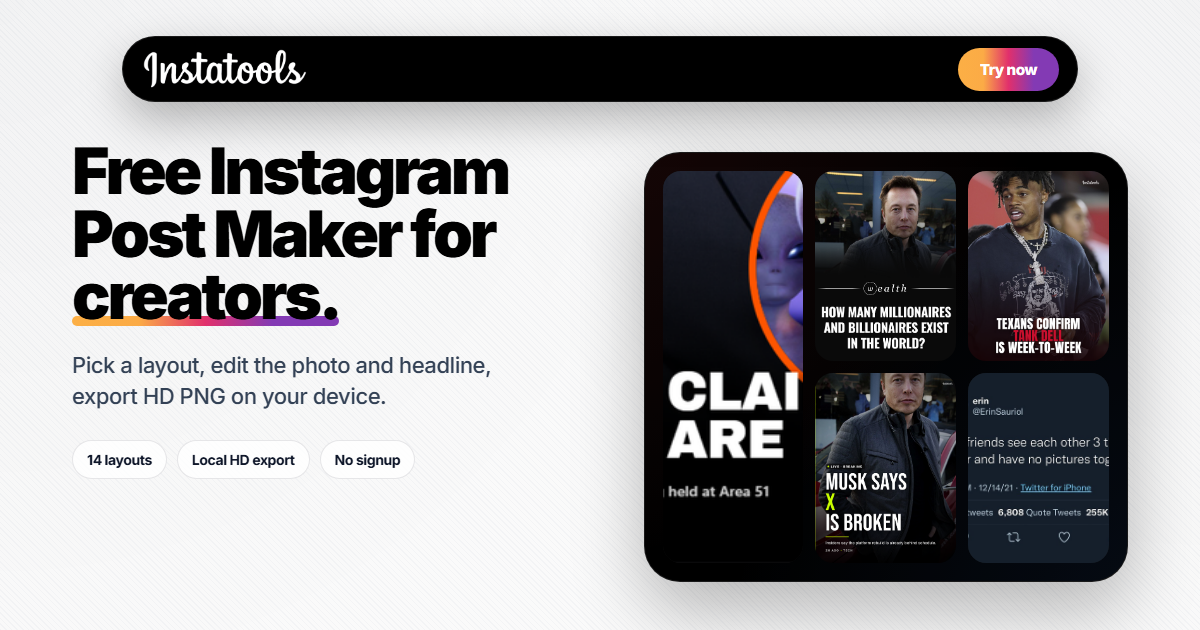
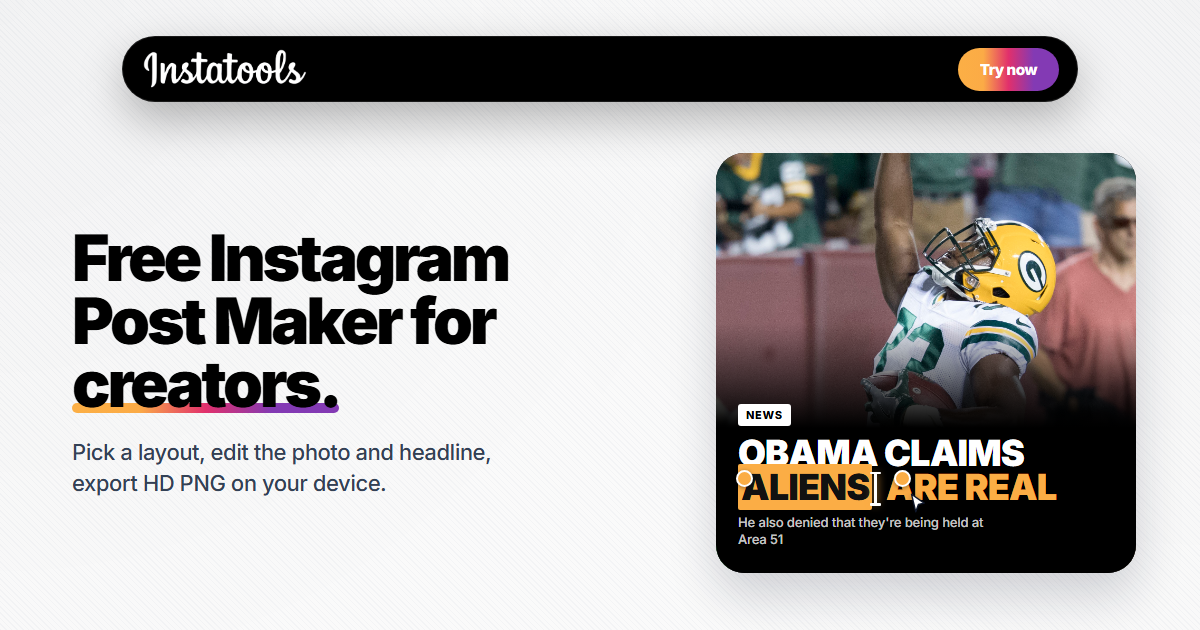
Refresh OG/Twitter card with gold edit accents.
Replace the collage with a single editing post mock and swap selection blues for #FBAD45, then ship the new share assets.

diff --git a/scripts/share-card.html b/scripts/share-card.html
@@ -6,7 +6,10 @@
     <link rel="preconnect" href="https://fonts.gstatic.com" crossorigin />
     <link href="https://fonts.googleapis.com/css2?family=Inter:wght@500;700;800;900&display=swap" rel="stylesheet" />
     <style>
-      html, body { margin: 0; }
+      html,
+      body {
+        margin: 0;
+      }
       .card {
         width: 1200px;
         height: 630px;
@@ -25,7 +28,13 @@
         background-image:
           radial-gradient(circle at 0 0, rgba(15, 23, 42, 0.06) 0, transparent 55%),
           radial-gradient(circle at 100% 0, rgba(15, 23, 42, 0.05) 0, transparent 55%),
-          repeating-linear-gradient(45deg, rgba(148, 163, 184, 0.12) 0, rgba(148, 163, 184, 0.12) 1px, transparent 1px, transparent 4px);
+          repeating-linear-gradient(
+            45deg,
+            rgba(148, 163, 184, 0.12) 0,
+            rgba(148, 163, 184, 0.12) 1px,
+            transparent 1px,
+            transparent 4px
+          );
       }
       .grad {
         --m-grad: linear-gradient(90deg, #fcaf45 0%, #fbab46 25%, #e1306c 50%, #833ab4 75%, #833ab4 100%);
@@ -66,12 +75,13 @@
       .hero {
         position: relative;
         z-index: 1;
-        padding: 140px 72px 48px;
+        padding: 132px 64px 36px 72px;
         display: grid;
-        grid-template-columns: 1.05fr 0.95fr;
-        gap: 36px;
+        grid-template-columns: 1fr 420px;
+        gap: 48px;
         height: 100%;
         box-sizing: border-box;
+        align-items: center;
       }
       .copy h1 {
         margin: 0;
@@ -98,74 +108,146 @@
       }
       .lead {
         margin: 22px 0 0;
-        max-width: 460px;
+        max-width: 440px;
         color: #334155;
         font-size: 22px;
         font-weight: 500;
         line-height: 1.4;
         letter-spacing: -0.02em;
       }
-      .meta {
-        margin-top: 28px;
-        display: flex;
-        gap: 10px;
-        flex-wrap: wrap;
-      }
-      .chip {
-        border: 1px solid rgba(15, 23, 42, 0.1);
-        background: rgba(255, 255, 255, 0.8);
-        border-radius: 999px;
-        padding: 10px 14px;
-        font-size: 14px;
-        font-weight: 700;
-        color: #0f172a;
-      }
-      .stage {
-        align-self: end;
+
+      /* Single Instagram post, solid edges, no mask / no outer glow */
+      .post {
+        width: 420px;
+        height: 420px;
         justify-self: end;
-        width: 100%;
-        height: 430px;
+        border-radius: 28px;
+        overflow: hidden;
+        position: relative;
         background: #000;
-        border: 1px solid rgba(255, 255, 255, 0.1);
-        border-radius: 36px;
-        padding: 18px;
-        box-sizing: border-box;
-        display: grid;
-        grid-template-columns: repeat(3, 1fr);
-        gap: 12px;
-        box-shadow: 0 28px 70px rgba(0, 0, 0, 0.28);
-        position: relative;
-        overflow: hidden;
+        box-shadow: 0 22px 48px rgba(15, 23, 42, 0.18);
       }
-      .stage::before {
-        content: '';
+      .post-photo {
         position: absolute;
-        inset: -20%;
-        background:
-          radial-gradient(circle at top left, rgba(239, 68, 68, 0.16), transparent 55%),
-          radial-gradient(circle at bottom right, rgba(59, 130, 246, 0.14), transparent 55%);
-        opacity: 0.7;
-        mix-blend-mode: screen;
-        pointer-events: none;
-      }
-      .thumb {
-        position: relative;
-        z-index: 1;
-        border-radius: 18px;
-        overflow: hidden;
-        background: #111;
-      }
-      .thumb img {
+        inset: 0;
         width: 100%;
         height: 100%;
         object-fit: cover;
+        object-position: center 18%;
         display: block;
       }
-      .thumb:nth-child(1) { grid-row: 1 / 3; }
-      .thumb:nth-child(2) { height: 190px; }
-      .thumb:nth-child(3) { height: 190px; }
-      .thumb:nth-child(4) { height: 190px; }
-      .thumb:nth-child(5) { height: 190px; }
+      .post-type {
+        position: absolute;
+        left: 0;
+        right: 0;
+        bottom: 0;
+        z-index: 2;
+        padding: 80px 22px 24px;
+        /* Solid black floor so nothing ghosts through */
+        background: linear-gradient(180deg, rgba(0, 0, 0, 0) 0%, #000 42%, #000 100%);
+        color: #fff;
+        font-weight: 900;
+        letter-spacing: -0.05em;
+        text-transform: uppercase;
+      }
+      .badge {
+        display: inline-block;
+        background: #fff;
+        color: #000;
+        font-size: 11px;
+        font-weight: 800;
+        letter-spacing: 0.06em;
+        padding: 4px 8px;
+        border-radius: 3px;
+        margin-bottom: 10px;
+      }
+      .line {
+        display: block;
+        font-size: 36px;
+        line-height: 0.95;
+      }
+      .line-2 {
+        margin-top: 2px;
+        font-size: 36px;
+        line-height: 0.95;
+        white-space: nowrap;
+      }
+      .word-orange {
+        color: #ff7a18;
+      }
+      .word-blue {
+        color: #fbad45;
+      }
+      .sel {
+        background: #fbad45;
+        color: #111;
+        border-radius: 2px;
+        padding: 1px 3px;
+      }
+      .caret {
+        display: inline-block;
+        width: 3px;
+        height: 32px;
+        margin: 0 2px -5px;
+        background: #fff;
+        border-radius: 1px;
+        vertical-align: baseline;
+        position: relative;
+        box-shadow: 0 0 8px rgba(251, 173, 69, 0.95);
+      }
+      .caret::before,
+      .caret::after {
+        content: '';
+        position: absolute;
+        left: -4px;
+        width: 11px;
+        height: 2.5px;
+        background: #fff;
+        border-radius: 1px;
+      }
+      .caret::before {
+        top: -1px;
+      }
+      .caret::after {
+        bottom: -1px;
+      }
+      .sub {
+        margin: 10px 0 0;
+        max-width: 260px;
+        font-size: 13px;
+        font-weight: 500;
+        letter-spacing: -0.01em;
+        text-transform: none;
+        color: rgba(255, 255, 255, 0.78);
+        line-height: 1.35;
+      }
+      .handle {
+        position: absolute;
+        z-index: 4;
+        width: 13px;
+        height: 13px;
+        border-radius: 50%;
+        background: #fbad45;
+        border: 2.5px solid #fff;
+        box-shadow: 0 1px 4px rgba(0, 0, 0, 0.4);
+      }
+      .handle-l {
+        left: 20px;
+        bottom: 86px;
+      }
+      .handle-r {
+        left: 178px;
+        bottom: 86px;
+      }
+      .cursor {
+        position: absolute;
+        left: 190px;
+        bottom: 58px;
+        z-index: 5;
+        width: 24px;
+        height: 24px;
+        filter: drop-shadow(0 2px 3px rgba(0, 0, 0, 0.45));
+      }
     </style>
   </head>
   <body class="grad">
@@ -184,18 +266,30 @@
           <p class="lead">
             Pick a layout, edit the photo and headline, export HD PNG on your device.
           </p>
-          <div class="meta">
-            <span class="chip">16 layouts</span>
-            <span class="chip">Local HD export</span>
-            <span class="chip">No signup</span>
-          </div>
         </div>
-        <div class="stage">
-          <div class="thumb"><img src="../public/themes/cards/template1.png" alt="" /></div>
-          <div class="thumb"><img src="../public/themes/cards/template3.png" alt="" /></div>
-          <div class="thumb"><img src="../public/themes/cards/template14.png" alt="" /></div>
-          <div class="thumb"><img src="../public/themes/cards/template13.png" alt="" /></div>
-          <div class="thumb"><img src="../public/themes/cards/template7.png" alt="" /></div>
+
+        <div class="post" aria-hidden="true">
+          <img class="post-photo" src="../public/demo/aaron-jones.jpg" alt="" />
+          <div class="post-type">
+            <span class="badge">NEWS</span>
+            <span class="line">Obama claims</span>
+            <span class="line-2">
+              <span class="sel word-orange">Aliens</span><span class="caret"></span>
+              <span class="word-blue">are real</span>
+            </span>
+            <p class="sub">He also denied that they're being held at Area 51</p>
+          </div>
+          <div class="handle handle-l"></div>
+          <div class="handle handle-r"></div>
+          <svg class="cursor" viewBox="0 0 24 24" xmlns="http://www.w3.org/2000/svg">
+            <path
+              d="M5.5 3.2L18.2 12.1L12.4 13.4L9.8 20.8L5.5 3.2Z"
+              fill="#fff"
+              stroke="#0f172a"
+              stroke-width="1.4"
+              stroke-linejoin="round"
+            />
+          </svg>
         </div>
       </div>
     </div>

diff --git a/src/seo/site.js b/src/seo/site.js
@@ -18,7 +18,7 @@ export const SITE = {
     sharePath: '/share.png',
     width: 1200,
     height: 630,
-    alt: 'Instatools free Instagram post maker with ready-to-edit layouts on a light marketing canvas',
+    alt: 'Instatools free Instagram post maker editing a layout headline in the browser',
     type: 'image/png',
   },
 }
